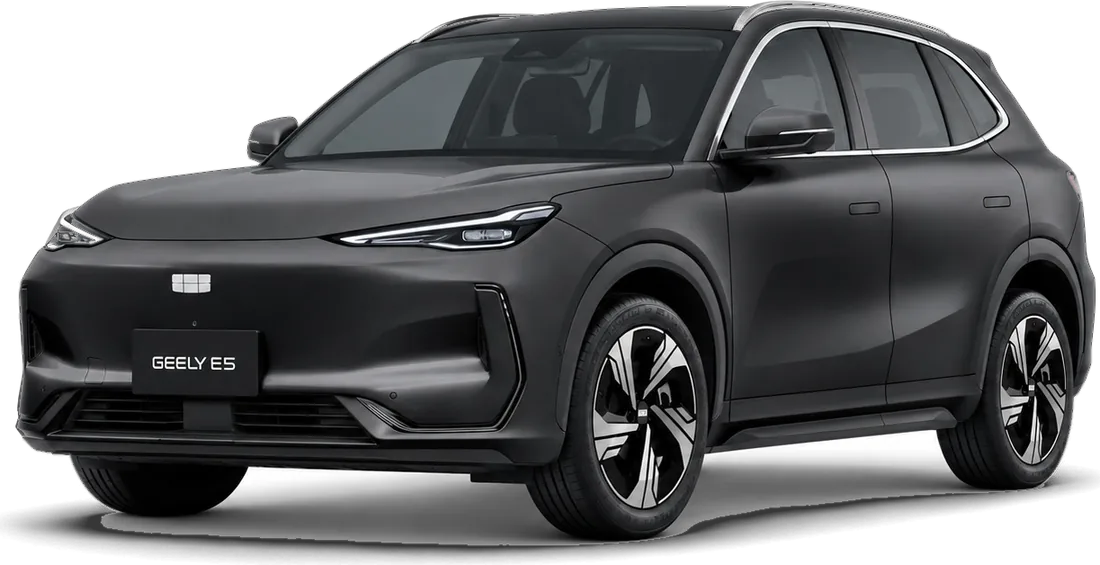
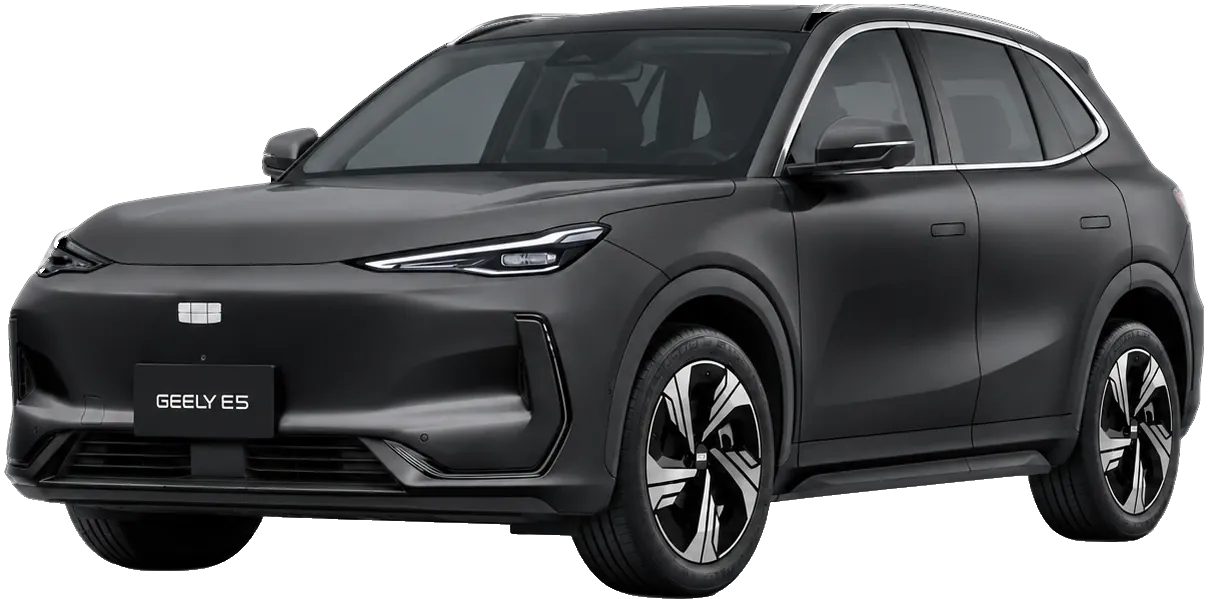
Match current stock, add availability, clean E5 cutouts
- Remove Coolray and the E5 Apex derivative; rename Riddara Aspire to Aspire Econ
- E5 EM-i electric range 105 km
- Stock status per derivative: chips, button dots, form dropdown, compare row
- Riddara Apex 4WD out of stock: waiting list CTAs in hero and card
- Re-cut E5, E5 EM-i and E2 Apex photos with floor removed; CSS ground shadow
- Include updated higher-resolution photo set

diff --git a/index.html b/index.html
@@ -111,7 +111,6 @@ section{padding-block:clamp(70px,10vw,130px)}
 .models{display:grid;gap:22px}
 .model{--k:var(--ice);display:grid;grid-template-columns:minmax(0,.9fr) minmax(0,1.1fr);background:radial-gradient(120% 90% at 75% 70%,color-mix(in srgb,var(--k) 9%,transparent),transparent 60%),var(--stage);border:1px solid var(--line);position:relative;overflow:hidden}
 .model[data-kind="phev"]{--k:var(--volt)}
-.model[data-kind="petrol"]{--k:var(--amber)}
 .model:nth-child(even){grid-template-columns:minmax(0,1.1fr) minmax(0,.9fr)}
 .model:nth-child(even) .m-info{order:2}
 .m-info{padding:clamp(24px,3.4vw,48px);display:grid;gap:22px;align-content:start;min-width:0}
@@ -127,6 +126,11 @@ section{padding-block:clamp(70px,10vw,130px)}
 .price{display:flex;align-items:baseline;gap:12px;flex-wrap:wrap}
 .price .amt{font-family:var(--f-num);font-size:clamp(38px,4.2vw,54px);font-weight:500;line-height:1}
 .price .note{font-size:13px;color:var(--mute)}
+.stock{display:inline-flex;align-items:center;gap:8px;padding:5px 10px;border:1px solid var(--s);font-size:12px;letter-spacing:.04em;color:var(--ink);background:color-mix(in srgb,var(--s) 10%,transparent)}
+.stock i,.deriv .dot{width:7px;height:7px;border-radius:50%;background:var(--s);flex:none}
+.s-import{--s:#5fd39a}
+.s-waitlist{--s:var(--amber)}
+.deriv{display:inline-flex;align-items:center;gap:8px}
 .specs{display:grid;grid-template-columns:repeat(2,minmax(0,1fr));gap:1px;background:var(--line);border:1px solid var(--line)}
 .spec{background:var(--stage);padding:14px 16px;min-width:0}
 .spec dt{font-size:11px;letter-spacing:.16em;text-transform:uppercase;color:var(--mute)}
@@ -147,11 +151,14 @@ section{padding-block:clamp(70px,10vw,130px)}
 .m-visual.has-photo .photo{display:block}
 .m-visual.has-photo .swap{display:none}
 .m-visual.is-scene .big{display:none}
-.photo.cut{width:100%;max-width:640px;height:auto;margin-inline:auto;filter:drop-shadow(0 28px 26px rgba(0,0,0,.75)) drop-shadow(0 0 46px color-mix(in srgb,var(--k) 22%,transparent))}
+/* cutouts: car only, with a CSS ground shadow under the tyres (--gl/--gr = tyre extents from each edge) */
+.photo.cut{width:100%;max-width:640px;margin-inline:auto;isolation:isolate}
+.photo.cut img{display:block;width:100%;height:auto}
+.photo.cut::before{content:"";position:absolute;z-index:-1;left:var(--gl,8%);right:var(--gr,8%);bottom:0;height:9%;transform:translateY(50%);border-radius:50%;background:radial-gradient(closest-side,rgba(0,0,0,.9),rgba(0,0,0,.55) 45%,transparent);filter:blur(5px)}
 .photo.cut.small{max-width:420px}
 .photo.scene{width:100%;height:auto;border:1px solid var(--line);box-shadow:0 30px 60px rgba(0,0,0,.55)}
 .hero-car.is-scene{display:grid;place-items:center}
-.hero-car .photo.scene{max-width:920px;border:0;box-shadow:none;-webkit-mask-image:linear-gradient(90deg,transparent,#000 6%,#000 94%,transparent),linear-gradient(transparent,#000 9%,#000 72%,transparent);-webkit-mask-composite:source-in;mask-image:linear-gradient(90deg,transparent,#000 6%,#000 94%,transparent),linear-gradient(transparent,#000 9%,#000 72%,transparent);mask-composite:intersect}
+.hero-car .photo.scene{max-width:1120px;border:0;box-shadow:none;-webkit-mask-image:linear-gradient(90deg,transparent,#000 6%,#000 94%,transparent),linear-gradient(transparent,#000 9%,#000 72%,transparent);-webkit-mask-composite:source-in;mask-image:linear-gradient(90deg,transparent,#000 6%,#000 94%,transparent),linear-gradient(transparent,#000 9%,#000 72%,transparent);mask-composite:intersect}
 .hero-car .hero-tag{z-index:2;text-shadow:0 1px 10px #000}
 .hero-note{margin-top:12px;font-size:12px}
 .swap{width:100%;display:grid;place-items:center;animation:swapIn .6s cubic-bezier(.2,.8,.2,1)}
@@ -176,6 +183,8 @@ tbody th{font-size:11px;letter-spacing:.18em;text-transform:uppercase;color:var(
 tbody td{font-family:var(--f-num);font-size:19px}
 tbody tr:last-child th,tbody tr:last-child td{border-bottom:0}
 td.best{color:var(--ice)}
+td .lab{display:block;margin-top:4px;font-family:var(--f-body);font-size:11px;letter-spacing:.14em;text-transform:uppercase;color:var(--mute)}
+td .stock{font-family:var(--f-body)}
 @media (max-width:700px){.compare-pick{grid-template-columns:1fr}}
 
 /* LIFESTYLE */
@@ -225,6 +234,7 @@ footer{border-top:1px solid var(--line);padding-block:48px calc(48px + env(safe-
 .foot p{margin:0 0 10px}
 @media (max-width:760px){.foot{grid-template-columns:1fr}}
 
+.vh{position:absolute;width:1px;height:1px;overflow:hidden;clip:rect(0 0 0 0);white-space:nowrap}
 @media (prefers-reduced-motion:reduce){*{animation:none!important;transition:none!important}html{scroll-behavior:auto}}
 </style>
 
@@ -252,8 +262,9 @@ footer{border-top:1px solid var(--line);padding-block:48px calc(48px + env(safe-
         <div class="hero-side">
           <p>Riddara is the electric bakkie brand of the Geely group. The RD6 Apex puts 315&nbsp;kW and 595&nbsp;Nm through two motors and all four wheels, making it one of the most powerful bakkies on sale in South Africa. It tows up to 3&nbsp;000&nbsp;kg and never needs diesel.</p>
           <div class="price"><span class="amt num">R 781 900</span><span class="note">Straight purchase</span></div>
+          <div id="heroStock"></div>
           <div class="ctas">
-            <a href="#reserve" class="btn" data-res="rd6" data-di="2">Reserve the Apex</a>
+            <a href="#reserve" class="btn" data-res="rd6" data-di="2">Join the waiting list</a>
             <a href="#models" class="btn ghost">Explore the range</a>
           </div>
         </div>
@@ -281,7 +292,7 @@ footer{border-top:1px solid var(--line);padding-block:48px calc(48px + env(safe-
       <div class="geely-facts">
         <div><b>The group</b><p>Geely is the Chinese automotive group behind Volvo Cars, Polestar, Lotus and Zeekr.</p></div>
         <div><b>Proven sellers</b><p>The E2 was China's best-selling vehicle of 2025.</p></div>
-        <div><b>In South Africa</b><p>Geely returned to South Africa in November 2025 and now offers electric, plug-in hybrid, petrol and bakkie models.</p></div>
+        <div><b>In South Africa</b><p>Geely returned to South Africa in November 2025 and now offers electric and plug-in hybrid cars and an electric bakkie.</p></div>
       </div>
     </div>
   </section>
@@ -294,7 +305,6 @@ footer{border-top:1px solid var(--line);padding-block:48px calc(48px + env(safe-
           <button class="chip" data-f="all" aria-pressed="true">All</button>
           <button class="chip" data-f="ev" aria-pressed="false">Electric</button>
           <button class="chip" data-f="phev" aria-pressed="false">Plug-in hybrid</button>
-          <button class="chip" data-f="petrol" aria-pressed="false">Petrol</button>
           <button class="chip" data-f="bakkie" aria-pressed="false">Bakkie</button>
         </div>
       </div>
@@ -346,12 +356,12 @@ footer{border-top:1px solid var(--line);padding-block:48px calc(48px + env(safe-
         <p class="fine" style="font-size:16px">No payment today. Reserve your car, get a firm quote, then order and pay by EFT. We deliver.</p>
         <ol class="steps">
           <li><span><b>Reserve online</b>Choose the model and derivative.</span></li>
-          <li><span><b>Firm quote</b>We confirm price, colour and delivery lead time.</span></li>
-          <li><span><b>Order and pay</b>Pay by EFT to place your order. We deliver your car within the agreed lead time.</span></li>
+          <li><span><b>Firm quote</b>We confirm price, colour and availability.</span></li>
+          <li><span><b>Order and pay</b>Order and pay by EFT, then we deliver. Current stock is in import, with an ETA of about two weeks after you order and pay by EFT. We confirm your delivery date once the car lands. The Riddara RD6 Apex 4WD is out of stock, so it goes on the waiting list for the next batch.</span></li>
         </ol>
       </div>
       <form id="resForm" name="reservation" method="POST" data-netlify="true" netlify-honeypot="company" novalidate>
-        <input type="hidden" name="form-name" value="reservation"><input type="hidden" name="ref" id="fRef"><input type="hidden" name="price" id="fPrice">
+        <input type="hidden" name="form-name" value="reservation"><input type="hidden" name="ref" id="fRef"><input type="hidden" name="price" id="fPrice"><input type="hidden" name="availability" id="fStock">
         <p hidden><label>Leave empty<input name="company" tabindex="-1" autocomplete="off"></label></p>
         <label for="fName">Full name<input id="fName" name="name" autocomplete="name" required></label>
         <label for="fPhone">Mobile number<input id="fPhone" name="phone" type="tel" autocomplete="tel" inputmode="tel" required></label>
@@ -385,7 +395,7 @@ footer{border-top:1px solid var(--line);padding-block:48px calc(48px + env(safe-
     </div>
     <div>
       <p>Geely vehicles are supplied to Eco EV through Geely Auto South Africa's fleet programme. Eco EV is not a franchised Geely dealership.</p>
-      <p>Prices are recommended retail prices announced by Geely Auto South Africa at each model's launch, including VAT, and may change. Specifications are from Geely Auto South Africa specification sheets and brochures and may change without notice. Range is WLTP unless marked NEDC. Geely includes a home wallbox charger on some models subject to its terms and Geely Finance approval; we confirm what is included with a straight purchase on your quote. Vehicle photographs are supplied by Geely and may show overseas specification; the Coolray is shown as an illustration.</p>
+      <p>Prices are recommended retail prices announced by Geely Auto South Africa at each model's launch, including VAT, and may change. Specifications are from Geely Auto South Africa specification sheets and brochures and may change without notice. Range is WLTP unless marked NEDC. Geely includes a home wallbox charger on some models subject to its terms and Geely Finance approval; we confirm what is included with a straight purchase on your quote. Vehicle photographs are supplied by Geely and may show overseas specification.</p>
       <p>Geely, Riddara and model names are trademarks of their respective owners.</p>
     </div>
   </div>
@@ -401,65 +411,57 @@ const MODELS = [
   blurb:"South Africa's most affordable EV at launch. Rear-wheel drive, 325 km of range, a 70-litre front trunk and 375 litres of boot space.",
   labels:{range:'Range (WLTP)',power:'Power',accel:'0–100 km/h',energy:'Battery',extra:'DC fast charge',cover:'Warranty'},
   derivs:[
-   {n:'Aspire',price:339900,rangeKm:325,range:'325 km',power:'85 kW / 150 Nm',accel:'11.5 s',energy:'39.4 kWh LFP',extra:'30–80% in 25 min',cover:'4 yr / 150 000 km',
+   {n:'Aspire',stock:'import',price:339900,rangeKm:325,range:'325 km',power:'85 kW / 150 Nm',accel:'11.5 s',energy:'39.4 kWh LFP',extra:'30–80% in 25 min',cover:'4 yr / 150 000 km',
     img:{src:'e2-aspire-street.webp',fit:'scene'},
     feat:['15" steel wheels, all-LED lights','14.6" touchscreen with Apple CarPlay and Android Auto','Blind spot detection and rear cross traffic alert','Rear camera and rear parking sensors','Vehicle-to-load power supply']},
-   {n:'Apex',price:389900,rangeKm:325,range:'325 km',power:'85 kW / 150 Nm',accel:'11.5 s',energy:'39.4 kWh LFP',extra:'30–80% in 25 min',cover:'4 yr / 150 000 km',
-    img:{src:'e2-apex-green.webp',fit:'cut',small:true},
+   {n:'Apex',stock:'import',price:389900,rangeKm:325,range:'325 km',power:'85 kW / 150 Nm',accel:'11.5 s',energy:'39.4 kWh LFP',extra:'30–80% in 25 min',cover:'4 yr / 150 000 km',
+    img:{src:'e2-apex-green.webp',fit:'cut',ground:[6,5]},
     feat:['16" alloys, two-tone paint, privacy glass','Adaptive cruise and automatic emergency braking','360° camera with transparent chassis view','6-way power seat, wireless charging, 6 speakers','256-colour ambient lighting']}
   ]},
- {id:'coolray',name:'Coolray',kind:'petrol',groups:['petrol'],body:'crossover',badge:'Turbo petrol',tag:'Compact performance SUV',
-  blurb:'For buyers not ready to plug in. A 1.5-litre turbo with 128 kW, a seven-speed dual-clutch gearbox and a claimed 6.5 l/100 km.',
-  labels:{range:'Economy',power:'Power',accel:'0–100 km/h',energy:'Engine',extra:'Gearbox',cover:'Warranty'},
-  derivs:[
-   {n:'Nova',price:369900,econ:6.5,range:'6.5 l/100 km',power:'128 kW / 290 Nm',accel:'7.6 s',energy:'1.5 T-GDI',extra:'7-speed DCT',cover:'5 yr / 150 000 km',
-    feat:['Turbocharged 1.5-litre engine','Seven-speed dual-clutch automatic','5 yr / 50 000 km service plan','Five colours']},
-   {n:'Vanguard',price:399900,econ:6.5,range:'6.5 l/100 km',power:'128 kW / 290 Nm',accel:'7.6 s',energy:'1.5 T-GDI',extra:'7-speed DCT',cover:'5 yr / 150 000 km',
-    feat:['Turbocharged 1.5-litre engine','Seven-speed dual-clutch automatic','5 yr / 50 000 km service plan','Mid-range specification']},
-   {n:'Vertex',price:429900,econ:6.5,range:'6.5 l/100 km',power:'128 kW / 290 Nm',accel:'7.6 s',energy:'1.5 T-GDI',extra:'7-speed DCT',cover:'5 yr / 150 000 km',
-    feat:['Motorsport rear wing with side fins','"S" badging','Turbocharged 1.5-litre engine','5 yr / 50 000 km service plan']}
-  ]},
  {id:'e5emi',name:'E5 EM-i',kind:'phev',groups:['phev'],body:'suv',badge:'Plug-in hybrid',tag:'Midsize plug-in hybrid SUV',
-  blurb:'Electric for the daily run, petrol for the long road. Up to 83 km on battery alone and a claimed 943 km on one tank and charge.',
+  blurb:'Electric for the daily run, petrol for the long road. Up to 105 km on battery alone and a claimed 943 km on one tank and charge.',
   labels:{range:'Total range (WLTP)',power:'Electric motor',accel:'0–100 km/h',energy:'Battery',extra:'Electric range',cover:'Warranty'},
   derivs:[
-   {n:'Aspire',price:599999,rangeKm:943,evKm:83,range:'943 km',power:'160 kW / 262 Nm',accel:'8.0 s',energy:'18.4 kWh',extra:'83 km',cover:'6 yr / 150 000 km',
-    img:{src:'e5emi-aspire-silver.webp',fit:'cut'},
+   {n:'Aspire',stock:'import',price:599999,rangeKm:943,evKm:105,range:'943 km',power:'160 kW / 262 Nm',accel:'8.0 s',energy:'18.4 kWh',extra:'105 km',cover:'6 yr / 150 000 km',
+    img:{src:'e5emi-aspire-silver.webp',fit:'cut',ground:[12,13]},
     feat:['18" alloy wheels and 6 airbags','7 kW wallbox charger','Claimed 6.2 l/100 km (WLTP)','5 yr / 75 000 km service plan']},
-   {n:'Apex',price:679999,rangeKm:943,evKm:83,range:'943 km',power:'160 kW / 262 Nm',accel:'8.1 s',energy:'18.4 kWh',extra:'83 km',cover:'6 yr / 150 000 km',
-    img:{src:'e5emi-apex-green.webp',fit:'cut'},
+   {n:'Apex',stock:'import',price:679999,rangeKm:943,evKm:105,range:'943 km',power:'160 kW / 262 Nm',accel:'8.1 s',energy:'18.4 kWh',extra:'105 km',cover:'6 yr / 150 000 km',
+    img:{src:'e5emi-apex-green.webp',fit:'cut',ground:[12,13]},
     feat:['19" low-drag alloy wheels','256-colour ambient lighting','Split-folding rear seat','Ivory White interior option']}
   ]},
  {id:'e5',name:'E5',kind:'ev',groups:['ev'],body:'suv',badge:'Electric',tag:'Midsize electric SUV',
   blurb:'The flagship electric SUV. 160 kW, a short-blade LFP battery, heat pump and 100 kW DC charging, with up to 450 km of range.',
   labels:{range:'Range (WLTP)',power:'Power',accel:'0–100 km/h',energy:'Battery',extra:'DC fast charge',cover:'Warranty'},
   derivs:[
-   {n:'Aspire',price:699999,rangeKm:430,range:'430 km',power:'160 kW / 320 Nm',accel:'6.9 s',energy:'60.22 kWh LFP',extra:'30–80% in 20 min',cover:'6 yr / 150 000 km',
-    img:{src:'e5-aspire-side.webp',fit:'cut'},
+   {n:'Aspire',stock:'import',price:699999,rangeKm:430,range:'430 km',power:'160 kW / 320 Nm',accel:'6.9 s',energy:'60.22 kWh LFP',extra:'30–80% in 20 min',cover:'6 yr / 150 000 km',
+    img:{src:'e5-aspire-side.webp',fit:'cut',ground:[13,12]},
     feat:['18" alloy wheels','15.4" screen, 10.2" digital cluster','Heat pump and ventilated front seats','6 yr / 120 000 km service plan']},
-   {n:'Apex',price:759999,rangeKm:410,range:'410 km',power:'160 kW / 320 Nm',accel:'7.1 s',energy:'60.22 kWh LFP',extra:'30–80% in 20 min',cover:'6 yr / 150 000 km',
-    img:{src:'e5-apex-front.webp',fit:'cut'},
-    feat:['19" low-drag alloy wheels','Head-up display and panoramic sunroof','Front seat massage and memory','Adaptive cruise and lane change assist']},
-   {n:'Apex Plus',price:788888,rangeKm:450,range:'450 km',power:'160 kW / 320 Nm',accel:'7.6 s',energy:'68.39 kWh LFP',extra:'30–80% in 20 min',cover:'6 yr / 150 000 km',
-    img:{src:'e5-apex-front.webp',fit:'cut'},
+   {n:'Apex Plus',stock:'import',price:788888,rangeKm:450,range:'450 km',power:'160 kW / 320 Nm',accel:'7.6 s',energy:'68.39 kWh LFP',extra:'30–80% in 20 min',cover:'6 yr / 150 000 km',
+    img:{src:'e5-apex-front.webp',fit:'cut',ground:[7,6]},
     feat:['Larger 68.39 kWh battery, 450 km range','Head-up display and panoramic sunroof','1 000 W, 16-speaker Flyme audio','19" alloys, powered tailgate']}
   ]},
  {id:'rd6',name:'Riddara RD6',kind:'ev',groups:['ev','bakkie'],body:'bakkie',badge:'Electric bakkie',tag:'Electric double cab',
   blurb:'A bakkie that drives like an SUV. Up to 315 kW, over a ton of payload, up to 3 000 kg towing and a 70-litre front trunk.',
   labels:{range:'Range (NEDC)',power:'Power',accel:'0–100 km/h',energy:'Battery',extra:'Payload / tow',cover:'Warranty'},
   derivs:[
-   {n:'Aspire 2WD',price:611900,rangeKm:null,range:'369 km',power:'180 kW / 309 Nm',accel:'9.0 s',energy:'63 kWh LFP',extra:'1 115 kg / 2 500 kg',cover:'6 yr / 150 000 km',
+   {n:'Aspire Econ 2WD',stock:'import',price:611900,rangeKm:null,range:'369 km',power:'180 kW / 309 Nm',accel:'9.0 s',energy:'63 kWh LFP',extra:'1 115 kg / 2 500 kg',cover:'6 yr / 150 000 km',
     img:{src:'rd6-aspire-2wd-white.webp',fit:'scene'},
     feat:['Rear-wheel drive, 3 drive modes','17" alloys with all-terrain tyres','90 kW DC charging, 30–80% in 32 min','6.6 kW power outlet in the load bin']},
-   {n:'Aspire 4WD',price:681900,rangeKm:null,range:'390 km',power:'280 kW / 485 Nm',accel:'7.0 s',energy:'73 kWh LFP',extra:'1 235 kg / 3 000 kg',cover:'6 yr / 150 000 km',
+   {n:'Aspire Econ 4WD',stock:'import',price:681900,rangeKm:null,range:'390 km',power:'280 kW / 485 Nm',accel:'7.0 s',energy:'73 kWh LFP',extra:'1 235 kg / 3 000 kg',cover:'6 yr / 150 000 km',
     img:{src:'rd6-aspire-4wd-black.webp',fit:'scene'},
     feat:['Dual-motor four-wheel drive','Sand, Mud and Off-road modes','95% maximum climbing gradient','4 airbags, 360° camera']},
-   {n:'Apex 4WD',price:781900,rangeKm:null,range:'424 km',power:'315 kW / 595 Nm',accel:'4.5 s*',energy:'73 kWh LFP',extra:'1 030 kg / 3 000 kg',cover:'6 yr / 150 000 km',
+   {n:'Apex 4WD',stock:'waitlist',price:781900,rangeKm:null,range:'424 km',power:'315 kW / 595 Nm',accel:'4.5 s*',energy:'73 kWh LFP',extra:'1 030 kg / 3 000 kg',cover:'6 yr / 150 000 km',
     img:{src:'rd6-apex-4wd-green.webp',fit:'scene'},
     feat:['14.6" screen, 10.2" cluster, 8 speakers','L2+ driver assistance with 14 functions','815 mm wading and Wading mode','LED headlights, 18" alloys, 6 airbags']}
   ]}
 ];
-const COLORS={ev:'#7fe3ff',phev:'#a98cff',petrol:'#ffb45c'};
+const COLORS={ev:'#7fe3ff',phev:'#a98cff'};
+const STOCK={
+ import:{label:'In import',detail:'ETA about 2 weeks',short:'in import',cta:'Reserve'},
+ waitlist:{label:'Out of stock',detail:'next batch date to be confirmed',short:'waiting list',cta:'Join the waiting list'}
+};
+const stockOf=d=>STOCK[d.stock];
+const stockChip=d=>`<span class="stock s-${d.stock}"><i aria-hidden="true"></i>${stockOf(d).label} · ${stockOf(d).detail}</span>`;
 
 /* ---------- car renders ---------- */
 const SHAPES={
@@ -516,9 +518,13 @@ const slug=t=>t.toLowerCase().replace(/[^a-z0-9]+/g,'-').replace(/^-|-$/g,'');
 function variant(m,i){const n=m.derivs[i].n;return {spokes:[5,6,10][i]||5,drive:/4wd/i.test(n)?'4wd':/2wd/i.test(n)?'rwd':''}}
 function imgOf(m,d){return d.img||m.img||null}
 function photo(m,d){const im=imgOf(m,d);if(!im)return '';
-  return `<img class="photo ${im.fit}${im.small?' small':''}" alt="Geely ${m.name} ${d.n}" src="images/${im.src}" loading="lazy" onerror="this.parentNode.classList.remove('has-photo','is-${im.fit}');this.remove()">`}
+  const img=cls=>`<img${cls} alt="Geely ${m.name} ${d.n}" src="images/${im.src}" loading="lazy" onerror="this.closest('.m-visual').classList.remove('has-photo','is-${im.fit}');this.closest('.photo').remove()">`;
+  if(im.fit!=='cut')return img(` class="photo ${im.fit}"`);
+  const g=im.ground||[8,8];
+  return `<div class="photo cut${im.small?' small':''}" style="--gl:${g[0]}%;--gr:${g[1]}%">${img('')}</div>`}
 window.__photo=photo;
 /* hero car */
+const HERO=MODELS.find(m=>m.id==='rd6').derivs[2];document.getElementById('heroStock').innerHTML=stockChip(HERO);
 const heroCar=document.getElementById('heroCar');heroCar.classList.add('has-photo','is-scene');
 heroCar.insertAdjacentHTML('beforeend',`<div class="swap">${carSVG('bakkie','#7fe3ff',{label:'Light-traced render of the Riddara RD6 Apex 4WD',spokes:10,drive:'4wd'})}</div><img class="photo scene" alt="Geely Riddara RD6 Apex 4WD in blue" src="images/rd6-hero-blue.webp" fetchpriority="high" onerror="this.parentNode.classList.remove('has-photo','is-scene');this.remove()">`);
 
@@ -540,13 +546,14 @@ function renderModel(m){
       </div>
       <p class="m-blurb">${m.blurb}</p>
       <div class="derivs" role="group" aria-label="${m.name} derivatives">
-        ${m.derivs.map((x,i)=>`<button class="deriv" data-m="${m.id}" data-i="${i}" aria-pressed="${i===state[m.id]}">${x.n}</button>`).join('')}
+        ${m.derivs.map((x,i)=>`<button class="deriv" data-m="${m.id}" data-i="${i}" aria-pressed="${i===state[m.id]}"><i class="dot s-${x.stock}" aria-hidden="true"></i>${x.n}<span class="vh">, ${stockOf(x).label.toLowerCase()}</span></button>`).join('')}
       </div>
       <div class="price"><span class="amt num">${R(d.price)}</span><span class="note">${m.name} ${d.n} · straight purchase</span></div>
+      <div>${stockChip(d)}</div>
       <dl class="specs" style="margin:0">${specHTML(m,d)}</dl>
       <ul class="feats">${d.feat.map(f=>`<li>${f}</li>`).join('')}</ul>
       <div class="m-actions">
-        <a href="#reserve" class="btn" data-res="${m.id}">Reserve ${d.n}</a>
+        <a href="#reserve" class="btn" data-res="${m.id}">${d.stock==='waitlist'?stockOf(d).cta:'Reserve '+d.n}</a>
         <a href="#compare" class="btn ghost" data-cmp="${m.id}">Compare</a>
       </div>
     </div>
@@ -579,7 +586,7 @@ function applyFilter(){list.querySelectorAll('.model').forEach(el=>{el.hidden=!(
 
 /* ---------- compare ---------- */
 const ALL=[];MODELS.forEach(m=>m.derivs.forEach((d,i)=>ALL.push({key:m.id+':'+i,m,d,label:m.name+' '+d.n})));
-const defaults=['rd6:2','e5:2','e2:1'];
+const defaults=['rd6:2','e5:1','e2:1'];
 const pick=document.getElementById('cmpPick');
 pick.innerHTML=[0,1,2].map(i=>`<label for="cmp${i}">Vehicle ${i+1}<select id="cmp${i}">${ALL.map(a=>`<option value="${a.key}">${a.label}</option>`).join('')}</select></label>`).join('');
 [0,1,2].forEach(i=>{const s=document.getElementById('cmp'+i);s.value=defaults[i];s.addEventListener('change',drawCompare)});
@@ -588,11 +595,12 @@ function drawCompare(){
   const rows=[
     ['Price',a=>R(a.d.price),a=>-a.d.price],
     ['Powertrain',a=>a.m.badge,null],
-    ['Range',a=>a.m.kind==='petrol'?'Petrol · '+a.d.range:a.d.range+(/NEDC/.test(a.m.labels.range)?' (NEDC)':' (WLTP)'),a=>a.d.rangeKm||0],
+    ['Range',a=>a.d.range+(/NEDC/.test(a.m.labels.range)?' (NEDC)':' (WLTP)'),a=>a.d.rangeKm||0],
     ['Power',a=>a.d.power,a=>parseFloat(a.d.power)||0],
     ['0–100 km/h',a=>/s$/.test(a.d.accel)?a.d.accel:'—',a=>/s$/.test(a.d.accel)?-parseFloat(a.d.accel):-99],
-    ['Battery / engine',a=>a.d.energy,null],
-    [ 'Charging / gearbox',a=>a.d.extra,null],
+    ['Battery',a=>a.d.energy,null],
+    ['More',a=>`${a.d.extra}<small class="lab">${a.m.labels.extra}</small>`,null],
+    ['Availability',a=>stockChip(a.d),null],
     ['Warranty / plan',a=>a.d.cover,null]
   ];
   const t=document.getElementById('cmpTable');
@@ -605,11 +613,15 @@ function drawCompare(){
 drawCompare();
 
 /* ---------- reservation ---------- */
-const fModel=document.getElementById('fModel'),fDeriv=document.getElementById('fDeriv');
+const fModel=document.getElementById('fModel'),fDeriv=document.getElementById('fDeriv'),form=document.getElementById('resForm');
 fModel.innerHTML=MODELS.map(m=>`<option value="${m.id}">${m.name}</option>`).join('');
-function fillDerivs(){const m=MODELS.find(x=>x.id===fModel.value);fDeriv.innerHTML=m.derivs.map((d,i)=>`<option value="${i}">${d.n} · ${R(d.price)}</option>`).join('')}
-fModel.addEventListener('change',fillDerivs);fModel.value='rd6';fillDerivs();fDeriv.value='2';
-const form=document.getElementById('resForm'),done=document.getElementById('done'),err=document.getElementById('fErr');
+function fillDerivs(){const m=MODELS.find(x=>x.id===fModel.value);fDeriv.innerHTML=m.derivs.map((d,i)=>`<option value="${i}">${d.n} · ${R(d.price)} · ${stockOf(d).short}</option>`).join('');syncSubmit()}
+function selDeriv(){return MODELS.find(x=>x.id===fModel.value).derivs[+fDeriv.value]}
+function syncSubmit(){const b=form.querySelector('button[type=submit]');if(!b.disabled)b.textContent=submitLabel()}
+function submitLabel(){const d=selDeriv();return d&&d.stock==='waitlist'?'Join the waiting list':'Reserve this car'}
+fDeriv.addEventListener('change',syncSubmit);
+fModel.addEventListener('change',fillDerivs);fModel.value='rd6';fillDerivs();fDeriv.value='2';syncSubmit();
+const done=document.getElementById('done'),err=document.getElementById('fErr');
 form.addEventListener('submit',e=>{
   e.preventDefault();
   const name=document.getElementById('fName').value.trim(),phone=document.getElementById('fPhone').value.trim();
@@ -619,8 +631,8 @@ form.addEventListener('submit',e=>{
   const m=MODELS.find(x=>x.id===fModel.value),d=m.derivs[+fDeriv.value];
   const ref='ECO-'+Math.random().toString(36).slice(2,7).toUpperCase();
   const pay=form.querySelector('input[name=pay]:checked').value;
-  const summary=`Reservation ${ref}\n${m.name} ${d.n} · ${R(d.price)}\nPayment: ${pay}\nName: ${name}\nMobile: ${phone}\nEmail: ${document.getElementById('fEmail').value.trim()||'—'}\nNotes: ${document.getElementById('fNote').value.trim()||'—'}`;
-  document.getElementById('fRef').value=ref;document.getElementById('fPrice').value=R(d.price);
+  const summary=`Reservation ${ref}\n${m.name} ${d.n} · ${R(d.price)}\nAvailability: ${stockOf(d).label}, ${stockOf(d).detail}\nPayment: ${pay}\nName: ${name}\nMobile: ${phone}\nEmail: ${document.getElementById('fEmail').value.trim()||'—'}\nNotes: ${document.getElementById('fNote').value.trim()||'—'}`;
+  document.getElementById('fRef').value=ref;document.getElementById('fPrice').value=R(d.price);document.getElementById('fStock').value=stockOf(d).label+' · '+stockOf(d).detail;
   const body=new URLSearchParams(new FormData(form));body.set('model',m.name);body.set('derivative',d.n);
   const btn=form.querySelector('button[type=submit]');btn.disabled=true;btn.textContent='Sending…';
   const show=ok=>{
@@ -636,10 +648,10 @@ form.addEventListener('submit',e=>{
   };
   fetch('/',{method:'POST',headers:{'Content-Type':'application/x-www-form-urlencoded'},body:body.toString()})
     .then(r=>show(r.ok)).catch(()=>show(false))
-    .finally(()=>{btn.disabled=false;btn.textContent='Reserve this car'});
+    .finally(()=>{btn.disabled=false;btn.textContent=submitLabel()});
 });
 
-document.addEventListener('click',e=>{const r=e.target.closest('[data-res]');if(!r)return;fModel.value=r.dataset.res;fillDerivs();fDeriv.value=r.dataset.di??state[r.dataset.res]});
+document.addEventListener('click',e=>{const r=e.target.closest('[data-res]');if(!r)return;fModel.value=r.dataset.res;fillDerivs();fDeriv.value=r.dataset.di??state[r.dataset.res];syncSubmit()});
 
 /* ---------- nav ---------- */
 const nav=document.getElementById('nav');
